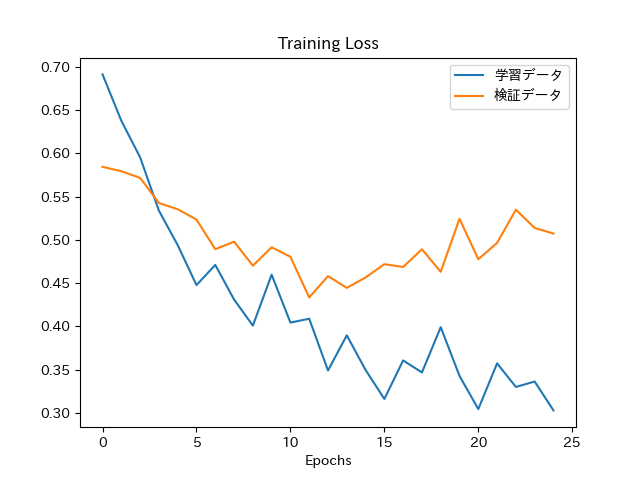
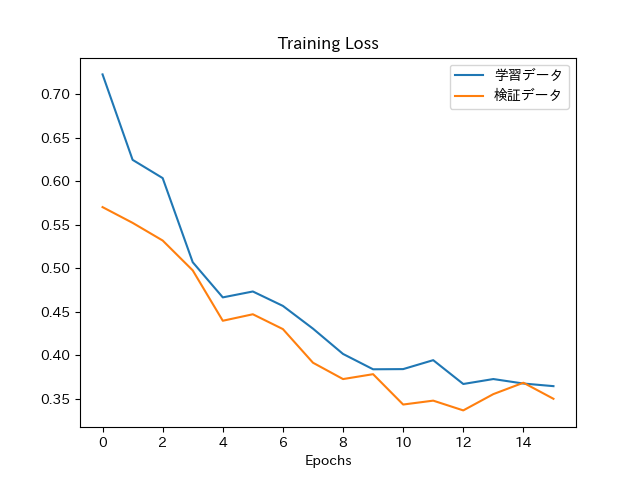
Implemented

diff --git a/classification/main.py b/classification/main.py
@@ -1,4 +1,4 @@
-from sklearn.model_selection import train_test_split
+from sklearn.model_selection import KFold, train_test_split
 from sklearn.preprocessing import StandardScaler
 from keras.layers import Activation, BatchNormalization, Dense
 from keras.layers.core import Dropout
@@ -77,52 +77,51 @@ test.loc[:,'Pclass'], test.loc[:,'Fare'] = tmp['Pclass'], tmp['Fare']
 # testの欠損値を中央値で埋める
 test['Fare'].fillna(test['Fare'].median(), inplace = True)
 
-# 学習データと検証データを分ける
-df, vali = train_test_split(df,test_size=0.4,random_state=0)
-
-# 学習データ
-x = df.drop(columns='Survived')
+X = df.drop(columns='Survived')
 y = df[['Survived']]
 
-# 検証データ
-vx = vali.drop(columns='Survived')
-vy = vali[['Survived']]
 
-activation, out_dim, dropout = 'relu', '702', 0.5
-# モデル指定
-model = Sequential()
+kf = KFold(n_splits = 10)
 
-# 入力層 - 隠れ層1
-model.add(Dense(input_dim = len(test.columns), units = out_dim))
-model.add(BatchNormalization())
-model.add(Activation(activation))
-model.add(Dropout(dropout))
+for train_index, test_index in kf.split(X):
+    X_train, X_test = X.iloc[train_index], X.iloc[test_index]
+    y_train, y_test = y.iloc[train_index], y.iloc[test_index]
 
-# 隠れ層1 - 隠れ層2
-model.add(Dense(units = out_dim))
-model.add(BatchNormalization())
-model.add(Activation(activation))
-model.add(Dropout(dropout))
+    activation, out_dim, dropout = 'relu', '702', 0.5
+    # モデル指定
+    model = Sequential()
 
-# 隠れ層2 - 隠れ層3
-model.add(Dense(units = out_dim))
-model.add(BatchNormalization())
-model.add(Activation(activation))
-model.add(Dropout(dropout))
+    # 入力層 - 隠れ層1
+    model.add(Dense(input_dim = len(test.columns), units = out_dim))
+    model.add(BatchNormalization())
+    model.add(Activation(activation))
+    model.add(Dropout(dropout))
 
-# 隠れ層3 - 出力層
-model.add(Dense(units = 1))
-model.add(Activation("sigmoid"))
+    # 隠れ層1 - 隠れ層2
+    model.add(Dense(units = out_dim))
+    model.add(BatchNormalization())
+    model.add(Activation(activation))
+    model.add(Dropout(dropout))
 
-# Kerasモデルをコンパイル
-model.compile(loss = 'binary_crossentropy', optimizer = 'adam',  metrics = ['accuracy'])
+    # 隠れ層2 - 隠れ層3
+    model.add(Dense(units = out_dim))
+    model.add(BatchNormalization())
+    model.add(Activation(activation))
+    model.add(Dropout(dropout))
 
-# 学習
-fit = model.fit(x, y, epochs = 25, validation_data=(vx, vy), batch_size = 16, verbose = 2)
+    # 隠れ層3 - 出力層
+    model.add(Dense(units = 1))
+    model.add(Activation("sigmoid"))
 
-# 予測
-y_test_proba = model.predict(test)
-y_test = np.round(y_test_proba).astype(int)
+    # Kerasモデルをコンパイル
+    model.compile(loss = 'binary_crossentropy', optimizer = 'adam',  metrics = ['accuracy'])
+
+    # 学習
+    fit = model.fit(X_train, y_train, epochs = 16, validation_data=(X_test, y_test), batch_size = 16, verbose = 2)
+
+    # 予測
+    y_test_proba = model.predict(test)
+    y_test = np.round(y_test_proba).astype(int)
 
 # PassengerId のDataFrameと結果を結合する
 df_output = pd.concat([index, pd.DataFrame(y_test, columns = ['Survived'])], axis = 1)
